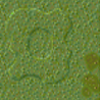
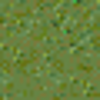
Completo vistas de tipos de terreno

diff --git a/src/view/VistasFactory.cpp b/src/view/VistasFactory.cpp
@@ -3,12 +3,35 @@
 #include <random>
 
 ObjectMapaVista* VistasFactory::getTerrainVista(TerrainType type) {
-  if (type == LAND) {
-    return new Image("../src/view/images/terrain/land.png");
-  }
-  else {
+  std::string path = "../src/view/images/terrain/";
+  std::string type_s;
+  if (type == LAND)
+    type_s = "land";
+  else if (type == PRAIRIE)
+    type_s = "land";
+  else if (type == PRAIRIE)
+    type_s = "prairie";
+  else if (type == SNOW)
+    type_s = "snow";
+  else if (type == WATER)
+    type_s = "water";
+  else if (type == SWAMP)
+    type_s = "swamp";
+  else if (type == LAVA)
+    type_s = "lava";
+  else if (type == ROAD)
+    type_s = "road";
+  else if (type == ASPHALTEDROAD)
+    type_s = "asphaltedroad";
+  else if (type == WOODENBRIDGE)
+    type_s = "woodenbridge";
+  else if (type == ASPHALTEDBRIDGE)
+    type_s = "asphaltedbridge";
+  else
     return nullptr;
-  }
+
+  path = path + type_s + ".png";
+  return new Image(path.c_str());
 }
 
 int getRandomNumInRange(const int range_from, const int range_to) {

diff --git a/src/model/GameController.h b/src/model/GameController.h
@@ -16,12 +16,13 @@ class GameController {
   Map &map;
   std::map<UnitID, Unit *> units;
   std::vector<Bullet> bullets;
-  std::vector<Unit *> deathUnits;
   std::map<BuildID, Build *> builds;
   std::map<CapturableID, Capturable *> capturables;
   std::map<PlayerID, Player *> players;
   std::map<TeamID, Team> teams;
   std::map<TerrainObjectID, TerrainObject> terrainObjects;
+  std::vector<Unit *> deathUnits;
+
   void move(Unit *unit,
             std::vector<Event *> &events,
             std::map<UnitID, Unit *>::iterator &it);

diff --git a/src/model/Map.cpp b/src/model/Map.cpp
@@ -129,6 +129,7 @@ UnitState Map::getUnitState(const UnitID &unitID) const {
 
 UnitID Map::getUnitIDFromPosition(const Position &pos,
                                   unsigned short range) const {
+
   for (auto &par : units) {
     bool inRange = pos.equalDelta(par.second.position, range);
     if (inRange)

diff --git a/src/view/Image.cpp b/src/view/Image.cpp
@@ -69,6 +69,8 @@ void Image::draw(SDL_Renderer *render, Camera &camera) {
 //  x - camera->x;
 //  y - camera->y;
 
+// TODO: dibujar imagen solo si esta dentro de la camera.
+
   SDL_Rect renderQuad = { x - camera.x, y- camera.y, width, height };
 
   SDL_RenderCopy(render, texture, NULL, &renderQuad);

diff --git a/src/model/Data.h b/src/model/Data.h
@@ -94,7 +94,7 @@ struct Data {
     v_jeep.weapon = bullet;
     v_jeep.secsUntilFire = 0.17;//1/6
     v_jeep.health = 10;
-    v_jeep.range = 30;//6x5
+    v_jeep.range = 5;//6x5
     v_jeep.speed = 8;
     v_jeep.factoryRate = 1;
     v_jeep.factoryBaseTimeInSec = 660;
